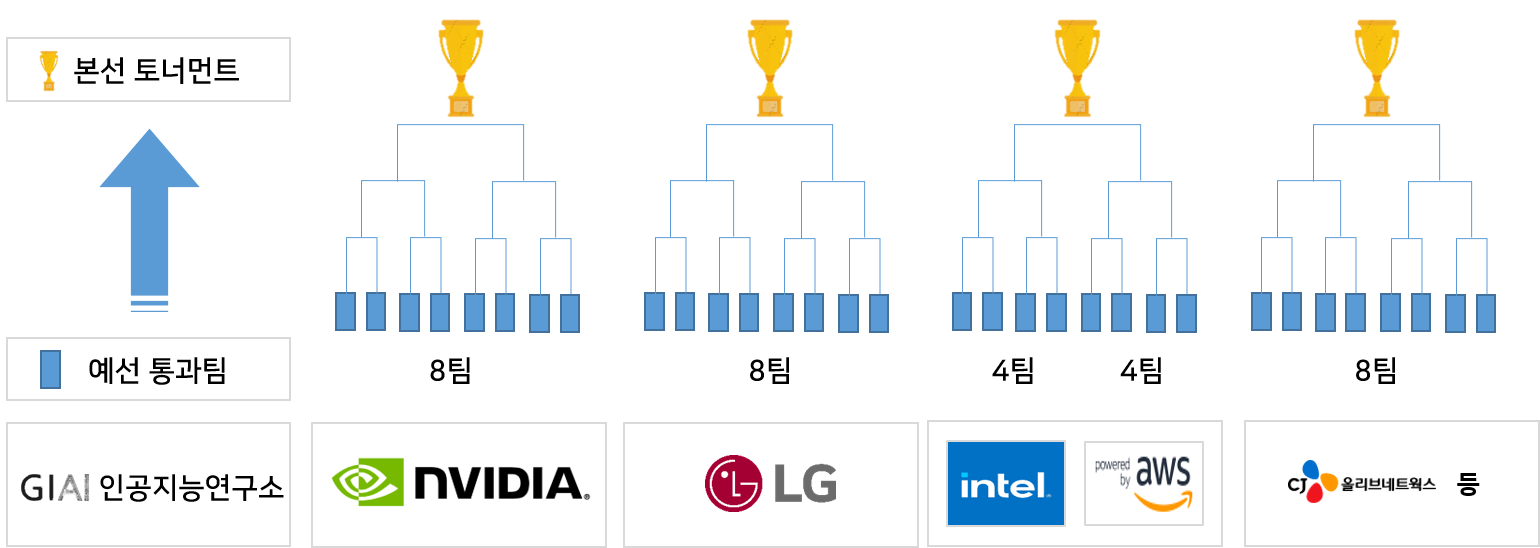
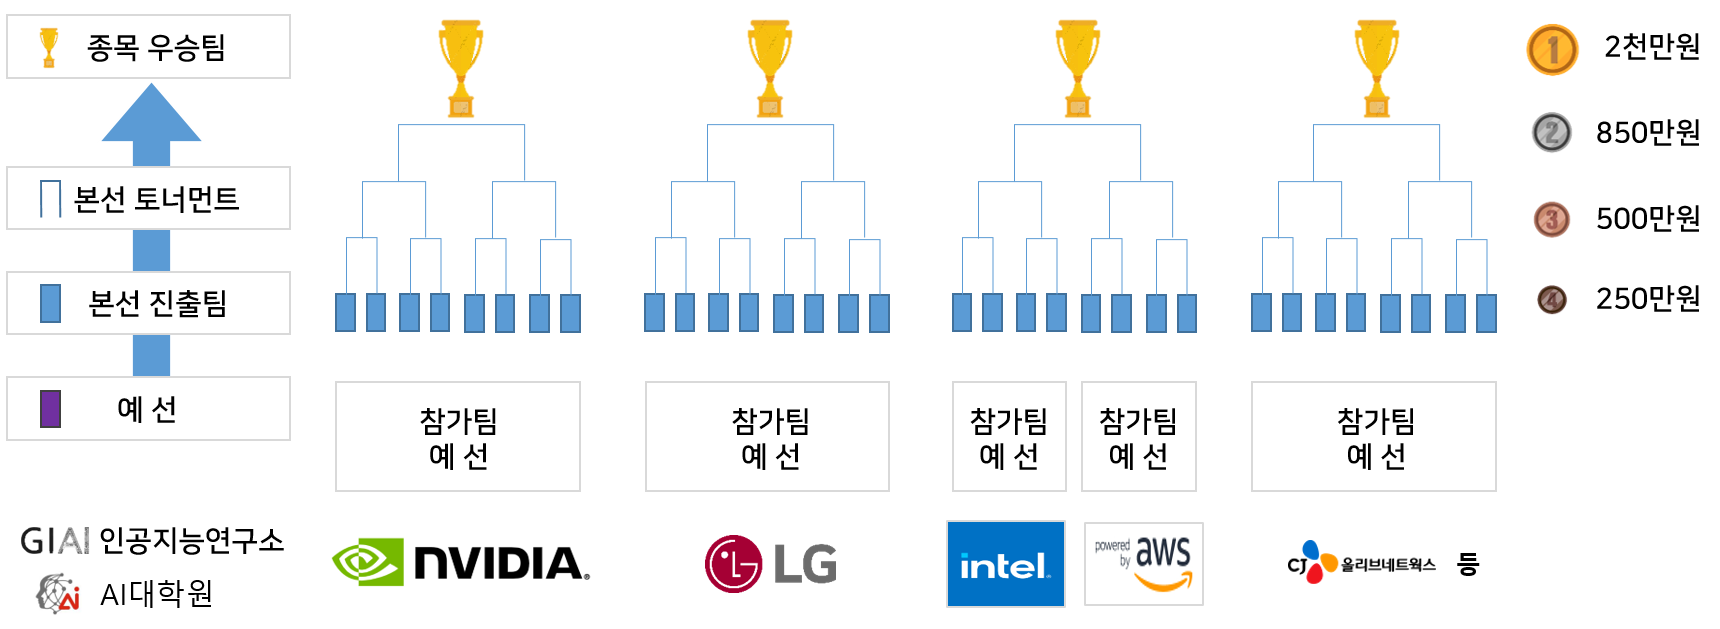
44

diff --git a/fair.html b/fair.html
@@ -292,10 +292,17 @@
                 <b style="font-size: 1.3em">00. 소개</b><br /><br />
                 ∙ 꿈꾸는아이(AI) 경진대회는 광주 AI집적단지의 3대 특화 분야에 대한 국내외 기업들의
                 AI 수요와 연결된 문제를 푸는 국내 최대규모의 경진대회로서, 총상금 2억 3천 4백만원을
-                걸고 예선과 본선으로 나누어 진행됩니다. 예선은 경진대회 문제를 제공하는 기업과 GIST
-                인공지능연구소가 함께 종목별로 진행합니다. 종목별로 진행되는 경진대회는 다음과
-                같습니다. <br /><br />
+                걸고 예선과 본선으로 나누어 진행됩니다. <br> <br>예선을 통과한 팀은 최소 250만원의 상금을 확보하게 됩니다.<br />본선에서는 예선을
+                통과한 32팀을 모아 종목별로 토너먼트를 통해 순위를 결정하고, 1등 상금 2,000만원을
+                받는 4팀을 결정합니다.<br /><br>
               </p>
+
+              <div style="text-align: center"><img src="img/torneamentum.png" alt="" /></div>
+              <br><br><br>
+              <p><b style="font-size: 22px;">📢 경진대회 문제를 제공하는 기업과 GIST
+                인공지능연구소가 함께 진행하는 종목별 경진대회는 다음과 같습니다.</b><br>
+              </p>
+              
               <table style="width: 15; font-size: 17px; margin-left: auto; margin-right: auto">
                 <tbody>
                   <tr>
@@ -410,134 +417,8 @@
                 </tbody>
               </table>
               <br />
-              <p>
-                <b>
-                  예선을 통과한 팀은 최소 250만원의 상금을 확보하게 됩니다. <br />본선에서는 예선을
-                  통과한 32팀을 모아 종목별로 토너먼트를 통해 순위를 결정하고, 1등 상금 2,000만원을
-                  받는 4팀을 결정합니다.</b
-                >
-              </p>
-              <br />
-              <table style="width: 15; font-size: 19px; margin-left: auto; margin-right: auto">
-                <tbody>
-                  <tr>
-                    <td
-                      style="
-                        padding: 10px;
-                        border-bottom: 1px solid #444444;
-                        border-right: #444444 1px solid;
-                      "
-                      rowspan="2"
-                    >
-                      Healthcare
-                    </td>
-                    <td
-                      style="
-                        padding: 10px;
-                        border-bottom: 1px solid #444444;
-                        border-right: 1px solid #444444;
-                      "
-                    >
-                      NVIDIA, GIST
-                    </td>
-                    <td style="border-bottom: 1px solid #444444; padding: 10px">8팀 본선 진출</td>
-                    <td
-                      style="
-                        border-bottom: 1px solid #444444;
-                        padding: 10px;
-                        border-left: 1px solid #444444;
-                      "
-                    >
-                      상금 4,850만원
-                    </td>
-                    <td rowspan="5" style="padding-left: 30px">
-                      상금 내역 <br />- 1등( 4팀): 각 팀당 2,000만원 <br />
-                      - 2등( 4팀): 각 팀당 850만원 <br />
-                      - 3등( 8팀): 각 팀당 500만원 <br />
-                      - 4등(16팀): 각 팀당 250만원 <br />
-                    </td>
-                  </tr>
-                  <tr>
-                    <td
-                      style="
-                        padding: 10px;
-                        border-bottom: 1px solid #444444;
-                        border-right: 1px solid #444444;
-                      "
-                    >
-                      LG전자, GIST
-                    </td>
-                    <td style="border-bottom: 1px solid #444444; padding: 10px">8팀 본선 진출</td>
-                    <td
-                      style="
-                        border-bottom: 1px solid #444444;
-                        padding: 10px;
-                        border-left: 1px solid #444444;
-                      "
-                    >
-                      상금 4,850만원
-                    </td>
-                  </tr>
-                  <tr>
-                    <td
-                      style="
-                        padding: 10px;
-                        border-bottom: 1px solid #444444;
-                        border-right: #444444 1px solid;
-                      "
-                      rowspan="2"
-                    >
-                      Mobility
-                    </td>
-                    <td
-                      style="
-                        padding: 10px;
-                        border-bottom: 1px solid #444444;
-                        border-right: 1px solid #444444;
-                      "
-                    >
-                      Intel, GIST
-                    </td>
-                    <td style="border-bottom: 1px solid #444444; padding: 10px">4팀 본선 진출</td>
-                    <td
-                      style="
-                        border-bottom: 1px solid #444444;
-                        padding: 10px;
-                        border-left: 1px solid #444444;
-                      "
-                      rowspan="2"
-                    >
-                      상금 4,850만원
-                    </td>
-                  </tr>
-                  <tr>
-                    <td
-                      style="
-                        padding: 10px;
-                        border-bottom: 1px solid #444444;
-                        border-right: 1px solid #444444;
-                      "
-                    >
-                      AWS, GIST
-                    </td>
-                    <td style="border-bottom: 1px solid #444444; padding: 10px">4팀 본선 진출</td>
-                    <!-- <td style="border-bottom: 1px solid #444444; padding: 10px; border-left: 1px solid #444444;">상금 4,850만원</td> -->
-                  </tr>
-                  <tr>
-                    <td style="padding: 10px; border-right: #444444 1px solid">
-                      Open 종목<br />(Energy, Culture 등)
-                    </td>
-                    <td style="padding: 10px; border-right: 1px solid #444444">
-                      CJ올리브네트웍스 등
-                    </td>
-                    <td style="padding: 10px">8팀 본선 진출</td>
-                    <td style="padding: 10px; border-left: 1px solid #444444">상금 4,850만원</td>
-                  </tr>
-                </tbody>
-              </table>
-              <br /><br />
-              <div style="text-align: center"><img src="img/torneamentum.png" alt="" /></div>
-              <br />
+
+              <br>
               <p>
                 <br /><br /><b style="font-size: 1.3em">01. 일정</b><br /><br />
                 ∙ 참가접수: <b style="color: red">~ 10.09(금) 24:00까지 온라인 접수</b> <br />
@@ -589,9 +470,10 @@
                 /></mark>
                 2) <b style="color: red">팀 대표는 한국인만 가능하며,</b> 팀원은 외국인도
                 가능합니다. <br /><br />
-                ∙ 참가신청은 다음 2단계로 이루어집니다. <br />
+                <div style="font-size: 20px;">
+                📣 참가신청은 다음 2단계로 이루어집니다. <br />
                 1) 참가하고자 하는 종목 참가신청서를 작성해 주시기 바랍니다. <br />
-                2) 경진대회 참가 및 개인정보 수집/이용 동의서를 작성해 주시기 바랍니다. <br />
+                2) 경진대회 참가 및 개인정보 수집/이용 동의서를 작성해 주시기 바랍니다. <br /></div>
                 <br /><br />
                 ∙ 경진대회 관련된 사항은 사전동의 없이 변경될 수 있습니다. <br />
                 <br />
